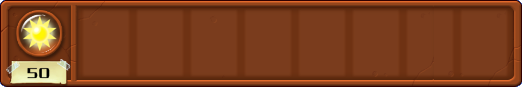
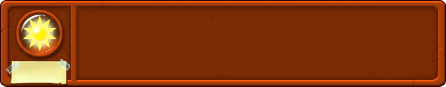
UPDATE

diff --git a/demo/Repeater.java b/demo/Repeater.java
@@ -15,54 +15,47 @@ public class Repeater extends plants {
 		this.x = X;
 		this.y = Y;
 		setBounds(X, Y, 100, 100);
-	    setVisible(true);
-	    for(int i = 0; i < 15; i++) 
-	    	getRepeater().add(new ImageIcon("./img/Plants/RepeaterPea/RepeaterPea_" + i + ".png").getImage());
+		setVisible(true);
+		for (int i = 0; i < 15; i++)
+			getRepeater().add(new ImageIcon("./img/Plants/RepeaterPea/RepeaterPea_" + i + ".png").getImage());
 
-	    }
-
-	    DrawGroup = Repeater;
+		DrawGroup = Repeater;
 	}
 
-	 
-	  @Override
-	    public void run()
-	    {
-	        while(true)
-	        {
-	        	if(isAlive(this.HP)) {
-	            try{
-	            	if(num == 2) state = ATTACK_STATE;
-	            	else state = NORMAL_STATE;
-	            	if(BulletsList.size() == 0) {
-	            		BulletsList.add(new Bullets(x+10,y));
-	            		BulletsList.add(new Bullets(x+40,y));
-	            	}
-	            	
-	            	Thread.sleep(100);
-	                repaint();
-	                num = (num + 1) % 15;
-	            }catch(InterruptedException e)
-	            {
-	                e.printStackTrace();
-	            }
-	            
-	        }
-	        	else {
-	        		this.goEmpty();
-	        		break;
-	        	}
-	        }
-}
 
-	  public Bullets getBullet() {
-		  Bullets ret =BulletsList.getFirst();
-		  BulletsList.removeFirst();
-		  return ret;
-	  }
-	  
-	  public boolean remainBullets() {
-		  return BulletsList.size() != 0;
-	  }
-}
+	@Override
+	public void run() {
+		while (true) {
+			if (isAlive(this.HP)) {
+				try {
+					if (num == 2) state = ATTACK_STATE;
+					else state = NORMAL_STATE;
+					if (BulletsList.size() == 0) {
+						BulletsList.add(new Bullets(x + 10, y));
+						BulletsList.add(new Bullets(x + 40, y));
+					}
 
+					Thread.sleep(100);
+					repaint();
+					num = (num + 1) % 15;
+				} catch (InterruptedException e) {
+					e.printStackTrace();
+				}
+
+			} else {
+				this.goEmpty();
+				break;
+			}
+		}
+	}
+
+	public Bullets getBullet() {
+		Bullets ret = BulletsList.getFirst();
+		BulletsList.removeFirst();
+		return ret;
+	}
+
+	public boolean remainBullets() {
+		return BulletsList.size() != 0;
+	}
+}

diff --git a/demo/CherryBomb.java b/demo/CherryBomb.java
@@ -3,7 +3,7 @@ package demo;
 import java.awt.Graphics;
 import javax.swing.ImageIcon;
 
-public class CherryBomb extends plants  {
+public class CherryBomb extends plants {
 
 	int width = 100;
 	int height = 100;
@@ -15,40 +15,36 @@ public class CherryBomb extends plants  {
 		this.x = X;
 		this.y = Y;
 		setBounds(X, Y, 100, 100);
-	    setVisible(true);
-	    
-	    for(int i = 0; i < 7; i++) {
-	    	getCherrybomb().add(new ImageIcon("./img/Plants/CherryBomb/CherryBomb_" + i + ".png").getImage());
-	    }
-	    DrawGroup = Cherrybomb;
+		setVisible(true);
+
+		for (int i = 0; i < 7; i++) {
+			getCherrybomb().add(new ImageIcon("./img/Plants/CherryBomb/CherryBomb_" + i + ".png").getImage());
+		}
+		DrawGroup = Cherrybomb;
 	}
 
-	  
-	  @Override
-	    public void run()
-	    {
-	        while(num < 7)
-	        {
-	        	if(isAlive(this.HP)) {
-	            try{
-	            	Thread.sleep(100);
-	            	num++;
-	            	repain();
-	            }catch(InterruptedException e)
-	            {
-	                e.printStackTrace();
-	            }
-	            
-	        }
-	        	else {
-	        		this.goEmpty();
-	        		break;
-	        	}
-	        }
-}
+
+	@Override
+	public void run() {
+		while (num < 7) {
+			if (isAlive(this.HP)) {
+				try {
+					Thread.sleep(100);
+					num++;
+					repaint();
+				} catch (InterruptedException e) {
+					e.printStackTrace();
+				}
+
+			} else {
+				this.goEmpty();
+				break;
+			}
+		}
+	}
 	public int boom() {
 		return HP = 0;
 	}
-	
-	
+
+
 }

diff --git a/View/AdventurePane.java b/View/AdventurePane.java
@@ -195,7 +195,7 @@ public class AdventurePane extends JLayeredPane implements Runnable
         this.frame = frame;
         setBounds(0, 0, 810, 600);
         setVisible(true);
-        //add(BGImgPanel, JLayeredPane.DEFAULT_LAYER);
+        add(BGImgPanel, JLayeredPane.DEFAULT_LAYER);
         BGImgPanel.setBounds(0, 0, getWidth(), getHeight());
         BGImgPanel.setVisible(true);
         add(new Repeater(80, 97));
@@ -205,8 +205,8 @@ public class AdventurePane extends JLayeredPane implements Runnable
         moveToZombie.start();
         Thread barThread = new Thread(plantBar);
         Thread groupThread = plantGroup.moveTo(plantGroup.VisibleX, plantGroup.VisibleY, 500, moveToZombie);
-        //add(plantBar, JLayeredPane.POPUP_LAYER, 1);
-        //add(plantGroup, JLayeredPane.POPUP_LAYER, 1);
+        add(plantBar, JLayeredPane.POPUP_LAYER, 1);
+        add(plantGroup, JLayeredPane.POPUP_LAYER, 1);
         barThread.start();
         groupThread.start();
         startBtn.addActionListener(new ActionListener()

diff --git a/View/PlantBar.java b/View/PlantBar.java
@@ -24,7 +24,7 @@ public class PlantBar extends JLabel implements Runnable
     {
         this.pane = pane;
         this.before = before;
-        cardCapacity = 3;
+        cardCapacity = 6;
         cardX = new int[]{0, 80, 132, 184, 236, 288, 340, 392, 444, 496};
         cardY = 7;
         cardsInBar = 0;

diff --git a/demo/Bullets.java b/demo/Bullets.java
@@ -50,7 +50,7 @@ public class Bullets extends plants {
 		  if(this.y == y) {
 			  return state = HIT_STATE;
 		  }
-		  return state = AttACK_STATE;
+		  return state = ATTACK_STATE;
 	  }
 	  
 		
